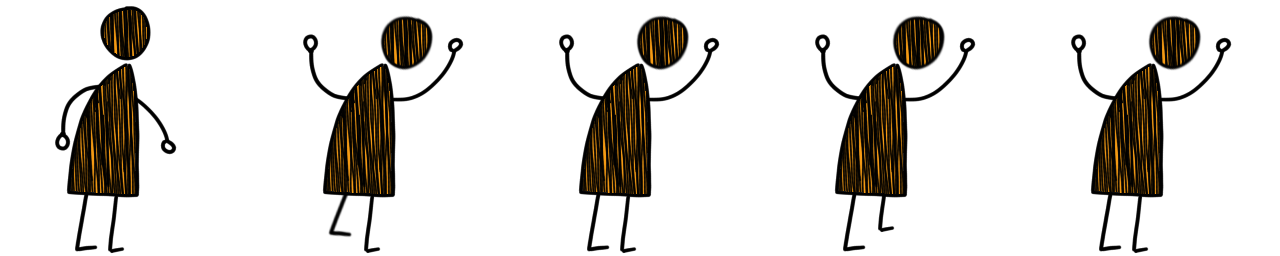
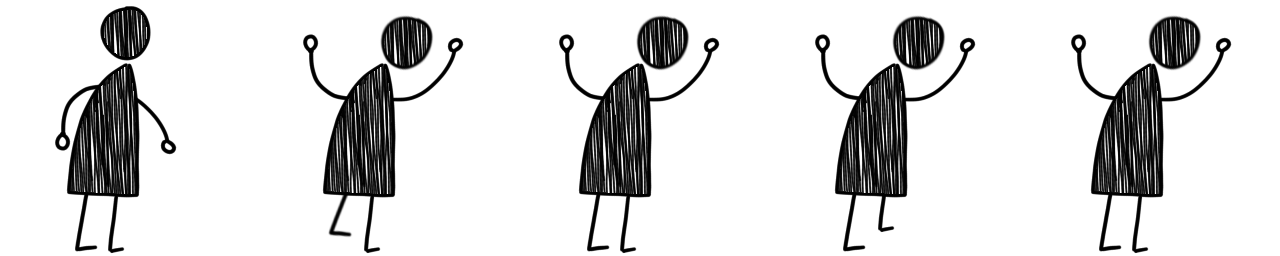
Color player
Vamos a poner el color del player desde phaser, mejor
Lo mismo con el fondo

diff --git a/src/game/scenes/Preloader.ts b/src/game/scenes/Preloader.ts
@@ -7,7 +7,7 @@ export class Preloader extends Scene {
 
   init() {
     //  We loaded this image in our Boot Scene, so we can display it here
-    this.add.image(512, 384, "background");
+    //this.add.image(512, 384, "background");
 
     //  A simple progress bar. This is the outline of the bar.
     this.add.rectangle(512, 384, 468, 32).setStrokeStyle(1, 0xffffff);

diff --git a/src/game/player.ts b/src/game/player.ts
@@ -29,7 +29,8 @@ export default class Player extends Phaser.Physics.Arcade.Sprite {
     enemyGroup: Phaser.Physics.Arcade.Group,
   ) {
     super(scene, x, y, "player");
-    this.scale = 1/4;
+    this.scale = 1/2;
+    this.setTint(0xb8fb27)
     scene.add.existing(this);
     scene.physics.add.existing(this);
     this.setCollideWorldBounds(true);

diff --git a/src/game/main.ts b/src/game/main.ts
@@ -13,7 +13,7 @@ const config: Phaser.Types.Core.GameConfig = {
   width: 1024,
   height: 768,
   parent: "game-container",
-  backgroundColor: "#028af8",
+  backgroundColor: "rgb(231, 184, 236)",
   scene: [Boot, Preloader, MainMenu, GameScene, GameOver, NewCoinScene],
   physics: {
     default: "arcade",
